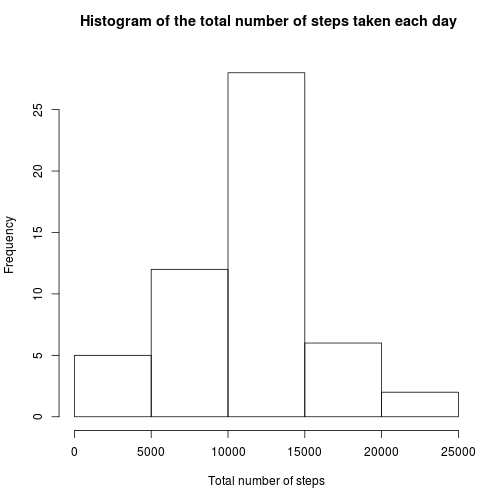
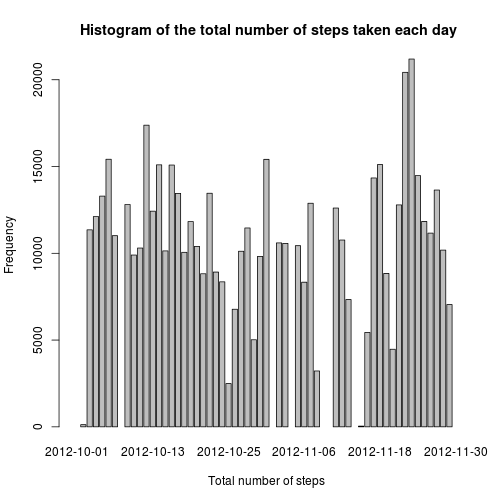
imporovments

diff --git a/PA1_template.html b/PA1_template.html
@@ -204,6 +204,7 @@ hr {
 <h2>Loading and preprocessing the data</h2>
 
 <pre><code class="r">#setwd(&#39;Documents/Coursera/ReproducibleResearch/RepData_PeerAssessment1/&#39;)
+unzip(&quot;activity.zip&quot;)
 data &lt;- read.csv(&#39;activity.csv&#39;)
 data$date&lt;- as.Date(data$date,format=&#39;%Y-%m-%d&#39;)
 </code></pre>
@@ -213,17 +214,18 @@ data$date&lt;- as.Date(data$date,format=&#39;%Y-%m-%d&#39;)
 <pre><code class="r">require(plyr)
 sums=ddply(data,.(date),summarise,sums=sum(steps))$sums
 dailyStep &lt;- data.frame(date=unique(data$date),totalDailySteps=sums)
-hist(dailyStep$totalDailySteps,ylab = &#39;Frequency&#39;,xlab = &#39;Total number of steps&#39;, main = &#39; Histogram of the total number of steps taken each day
-&#39;)
+#barplot better than Hist
+barplot(dailyStep$totalDailySteps,names.arg=dailyStep$date,ylab = &#39;Frequency&#39;,xlab = &#39;Total number of steps&#39;, main = &#39; Histogram of the total number of steps taken each day&#39;)
 </code></pre>
 
[2 lines of base64/hex data omitted]
 
-<pre><code class="r">totalsmean &lt;- mean(dailyStep[! is.na(dailyStep$totalDailySteps),&quot;totalDailySteps&quot;])
+<pre><code class="r">#hist(dailyStep$totalDailySteps,ylab = &#39;Frequency&#39;,xlab = &#39;Total number of steps&#39;, main =&#39; Histogram of the total number of steps taken each day&#39;)
+totalsmean &lt;- round(mean(dailyStep[! is.na(dailyStep$totalDailySteps),&quot;totalDailySteps&quot;]))
 totalsmedian &lt;- median(dailyStep[! is.na(dailyStep$totalDailySteps),&quot;totalDailySteps&quot;])
 </code></pre>
 
-<p>the mean total number of steps taken per day is 1.0766189 &times; 10<sup>4</sup> and 
+<p>the mean total number of steps taken per day is 1.0766 &times; 10<sup>4</sup> and 
 the median total number of steps taken per day is 10765</p>
 
 <h2>What is the average daily activity pattern?</h2>
@@ -259,17 +261,18 @@ for(row in 1:nrow(data)) {
 require(plyr)
 newSums=ddply(newData,.(date),summarise,sums=sum(steps))$sums
 newDailyStep &lt;- data.frame(date=unique(newData$date),totalDailySteps=newSums)
-hist(newDailyStep$totalDailySteps,ylab = &#39;Frequency&#39;,xlab = &#39;Total number of steps&#39;, main = &#39; Histogram of the total number of steps taken each day
+#hist(newDailyStep$totalDailySteps,ylab = &#39;Frequency&#39;,xlab = &#39;Total number of steps&#39;, main = &#39; Histogram of the total number of steps taken each day&#39;)
+barplot(newDailyStep$totalDailySteps,names.arg = newDailyStep$date,ylab = &#39;Frequency&#39;,xlab = &#39;Total number of steps&#39;, main = &#39; Histogram of the total number of steps taken each day
 &#39;)
 </code></pre>
 
[2 lines of base64/hex data omitted]
 
-<pre><code class="r">newTotalsmean &lt;- mean(newDailyStep$totalDailySteps)
-newTotalsmedian &lt;- median(newDailyStep$totalDailySteps)
+<pre><code class="r">newTotalsmean &lt;- round(mean(newDailyStep$totalDailySteps))
+newTotalsmedian &lt;-round( median(newDailyStep$totalDailySteps))
 </code></pre>
 
-<p>From the new data the the mean and median total number of steps taken per day are: 1.0766189 &times; 10<sup>4</sup> and 1.0766189 &times; 10<sup>4</sup></p>
+<p>From the new data the the mean and median total number of steps taken per day are: 1.0766 &times; 10<sup>4</sup> and 1.0766 &times; 10<sup>4</sup></p>
 
 <h2>Are there differences in activity patterns between weekdays and weekends?</h2>
 

diff --git a/PA1_template.md b/PA1_template.md
@@ -8,6 +8,7 @@ output:
 
 ```r
 #setwd('Documents/Coursera/ReproducibleResearch/RepData_PeerAssessment1/')
+unzip("activity.zip")
 data <- read.csv('activity.csv')
 data$date<- as.Date(data$date,format='%Y-%m-%d')
 ```
@@ -17,17 +18,18 @@ data$date<- as.Date(data$date,format='%Y-%m-%d')
 require(plyr)
 sums=ddply(data,.(date),summarise,sums=sum(steps))$sums
 dailyStep <- data.frame(date=unique(data$date),totalDailySteps=sums)
-hist(dailyStep$totalDailySteps,ylab = 'Frequency',xlab = 'Total number of steps', main = ' Histogram of the total number of steps taken each day
-')
+#barplot better than Hist
+barplot(dailyStep$totalDailySteps,names.arg=dailyStep$date,ylab = 'Frequency',xlab = 'Total number of steps', main = ' Histogram of the total number of steps taken each day')
 ```
 
 ![plot of chunk unnamed-chunk-2](figure/unnamed-chunk-2-1.png) 
 
 ```r
-totalsmean <- mean(dailyStep[! is.na(dailyStep$totalDailySteps),"totalDailySteps"])
+#hist(dailyStep$totalDailySteps,ylab = 'Frequency',xlab = 'Total number of steps', main =' Histogram of the total number of steps taken each day')
+totalsmean <- round(mean(dailyStep[! is.na(dailyStep$totalDailySteps),"totalDailySteps"]))
 totalsmedian <- median(dailyStep[! is.na(dailyStep$totalDailySteps),"totalDailySteps"])
 ```
-the mean total number of steps taken per day is 1.0766189 &times; 10<sup>4</sup> and 
+the mean total number of steps taken per day is 1.0766 &times; 10<sup>4</sup> and 
 the median total number of steps taken per day is 10765
 ## What is the average daily activity pattern?
 
@@ -63,17 +65,18 @@ for(row in 1:nrow(data)) {
 require(plyr)
 newSums=ddply(newData,.(date),summarise,sums=sum(steps))$sums
 newDailyStep <- data.frame(date=unique(newData$date),totalDailySteps=newSums)
-hist(newDailyStep$totalDailySteps,ylab = 'Frequency',xlab = 'Total number of steps', main = ' Histogram of the total number of steps taken each day
+#hist(newDailyStep$totalDailySteps,ylab = 'Frequency',xlab = 'Total number of steps', main = ' Histogram of the total number of steps taken each day')
+barplot(newDailyStep$totalDailySteps,names.arg = newDailyStep$date,ylab = 'Frequency',xlab = 'Total number of steps', main = ' Histogram of the total number of steps taken each day
 ')
 ```
 
 ![plot of chunk unnamed-chunk-5](figure/unnamed-chunk-5-1.png) 
 
 ```r
-newTotalsmean <- mean(newDailyStep$totalDailySteps)
-newTotalsmedian <- median(newDailyStep$totalDailySteps)
+newTotalsmean <- round(mean(newDailyStep$totalDailySteps))
+newTotalsmedian <-round( median(newDailyStep$totalDailySteps))
 ```
-From the new data the the mean and median total number of steps taken per day are: 1.0766189 &times; 10<sup>4</sup> and 1.0766189 &times; 10<sup>4</sup>
+From the new data the the mean and median total number of steps taken per day are: 1.0766 &times; 10<sup>4</sup> and 1.0766 &times; 10<sup>4</sup>
 
 ## Are there differences in activity patterns between weekdays and weekends?
 
